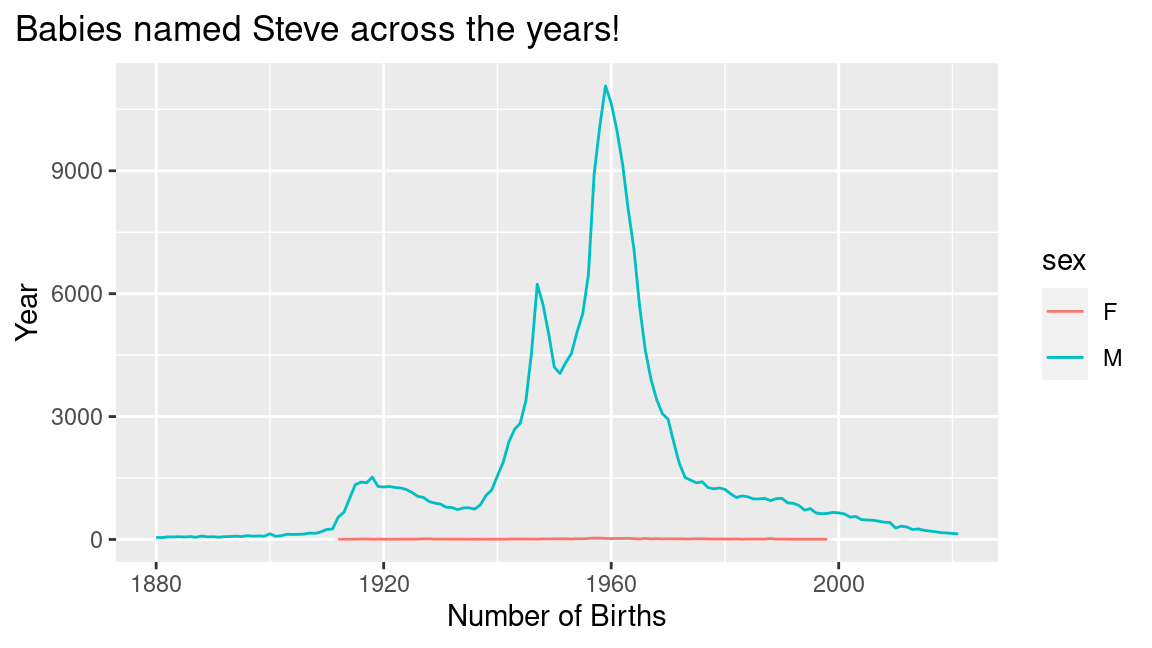
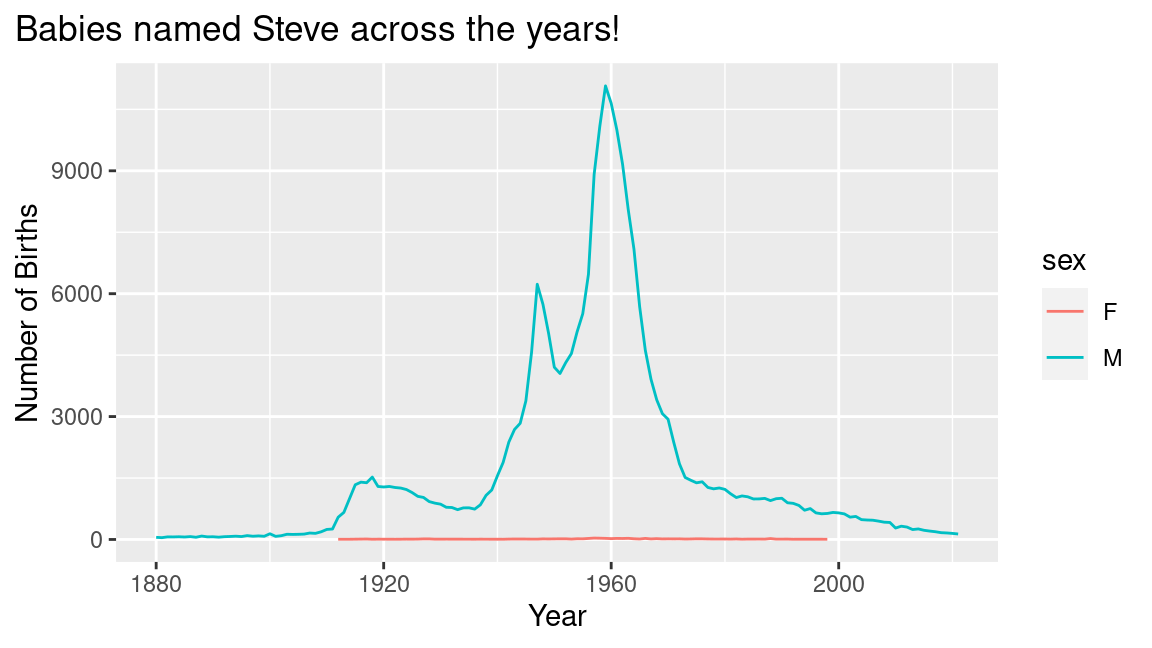
updating final assignment

Changed region(s): [[0.375, 0.9259, 0.5938, 0.9877], [0.0, 0.3086, 0.0312, 0.6481]]

diff --git a/projects/project-01/project-01-explore-babynames.md b/projects/project-01/project-01-explore-babynames.md
@@ -237,8 +237,8 @@ plot_trends_in_name <- function(my_name) {
     # Add labels (title, x, y)
     labs(
       title = glue::glue("Babies named {my_name} across the years!"),
-      x = 'Number of Births',
-      y = 'Year'
+      x = 'Year',
+      y = 'Number of Births'
     ) +
     # Update plot theme
     theme(plot.title.position = "plot")
@@ -349,14 +349,14 @@ tbl_names_by_letter |>
   # Add a column layer using `geom_col()`
   geom_col() +
   # Facet wrap plot by sex
-  facet_wrap(~sex)+
+  facet_wrap(~sex,scales="free_y")+
   # Add labels (title, subtitle, x, y)
   
   labs(
     title="Distribution of births by first letter for the year 2020",
     subtitle=" The most popular first letter for females were A and for males J",
     x="First Letter",
-    y=" Number of Births"
+    y=" Percentage of Births"
   ) +
     
   # Fix scales of y axis
@@ -567,7 +567,7 @@ tbl_names_vowel_consonant |>
   # Add an area layer with fill = first_last
   geom_area(aes(fill=first_last))+
   # Facet wrap plot by `sex`
-  facet_wrap(~sex)+
+  facet_wrap(~sex,scales="free_y")+
   # Add labels (title, subtitle, caption, x, y)
   labs(
     title="Trends in usage of Vowels and consonants in baby names over time",
